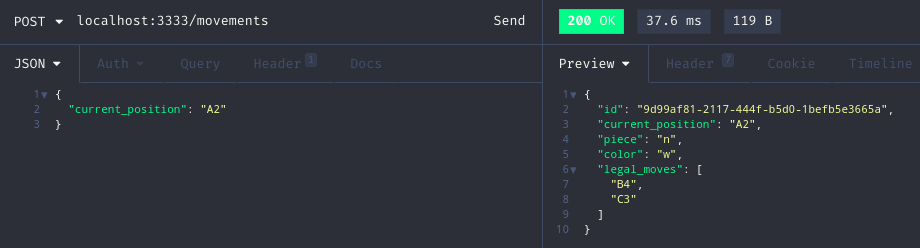
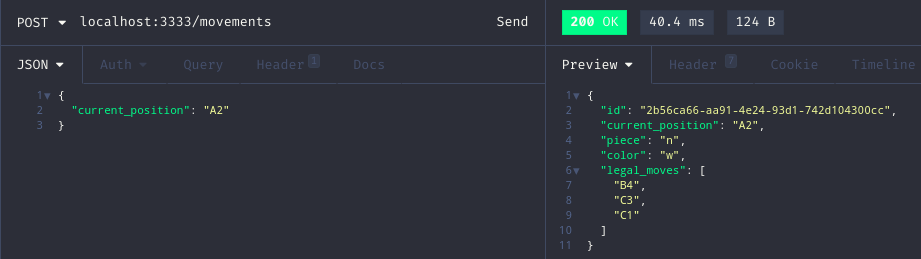
docs: change post example image and edit expected return list on readme

diff --git a/README.md b/README.md
@@ -137,7 +137,7 @@ Given the following input:
 current_position: 'E2'
 
 The expected result is:
-['C3', 'D4', 'F4', 'G3']
+['C3', 'D4', 'F4', 'G3', 'G1', 'C1']
 ```
 
 ## Deployment
